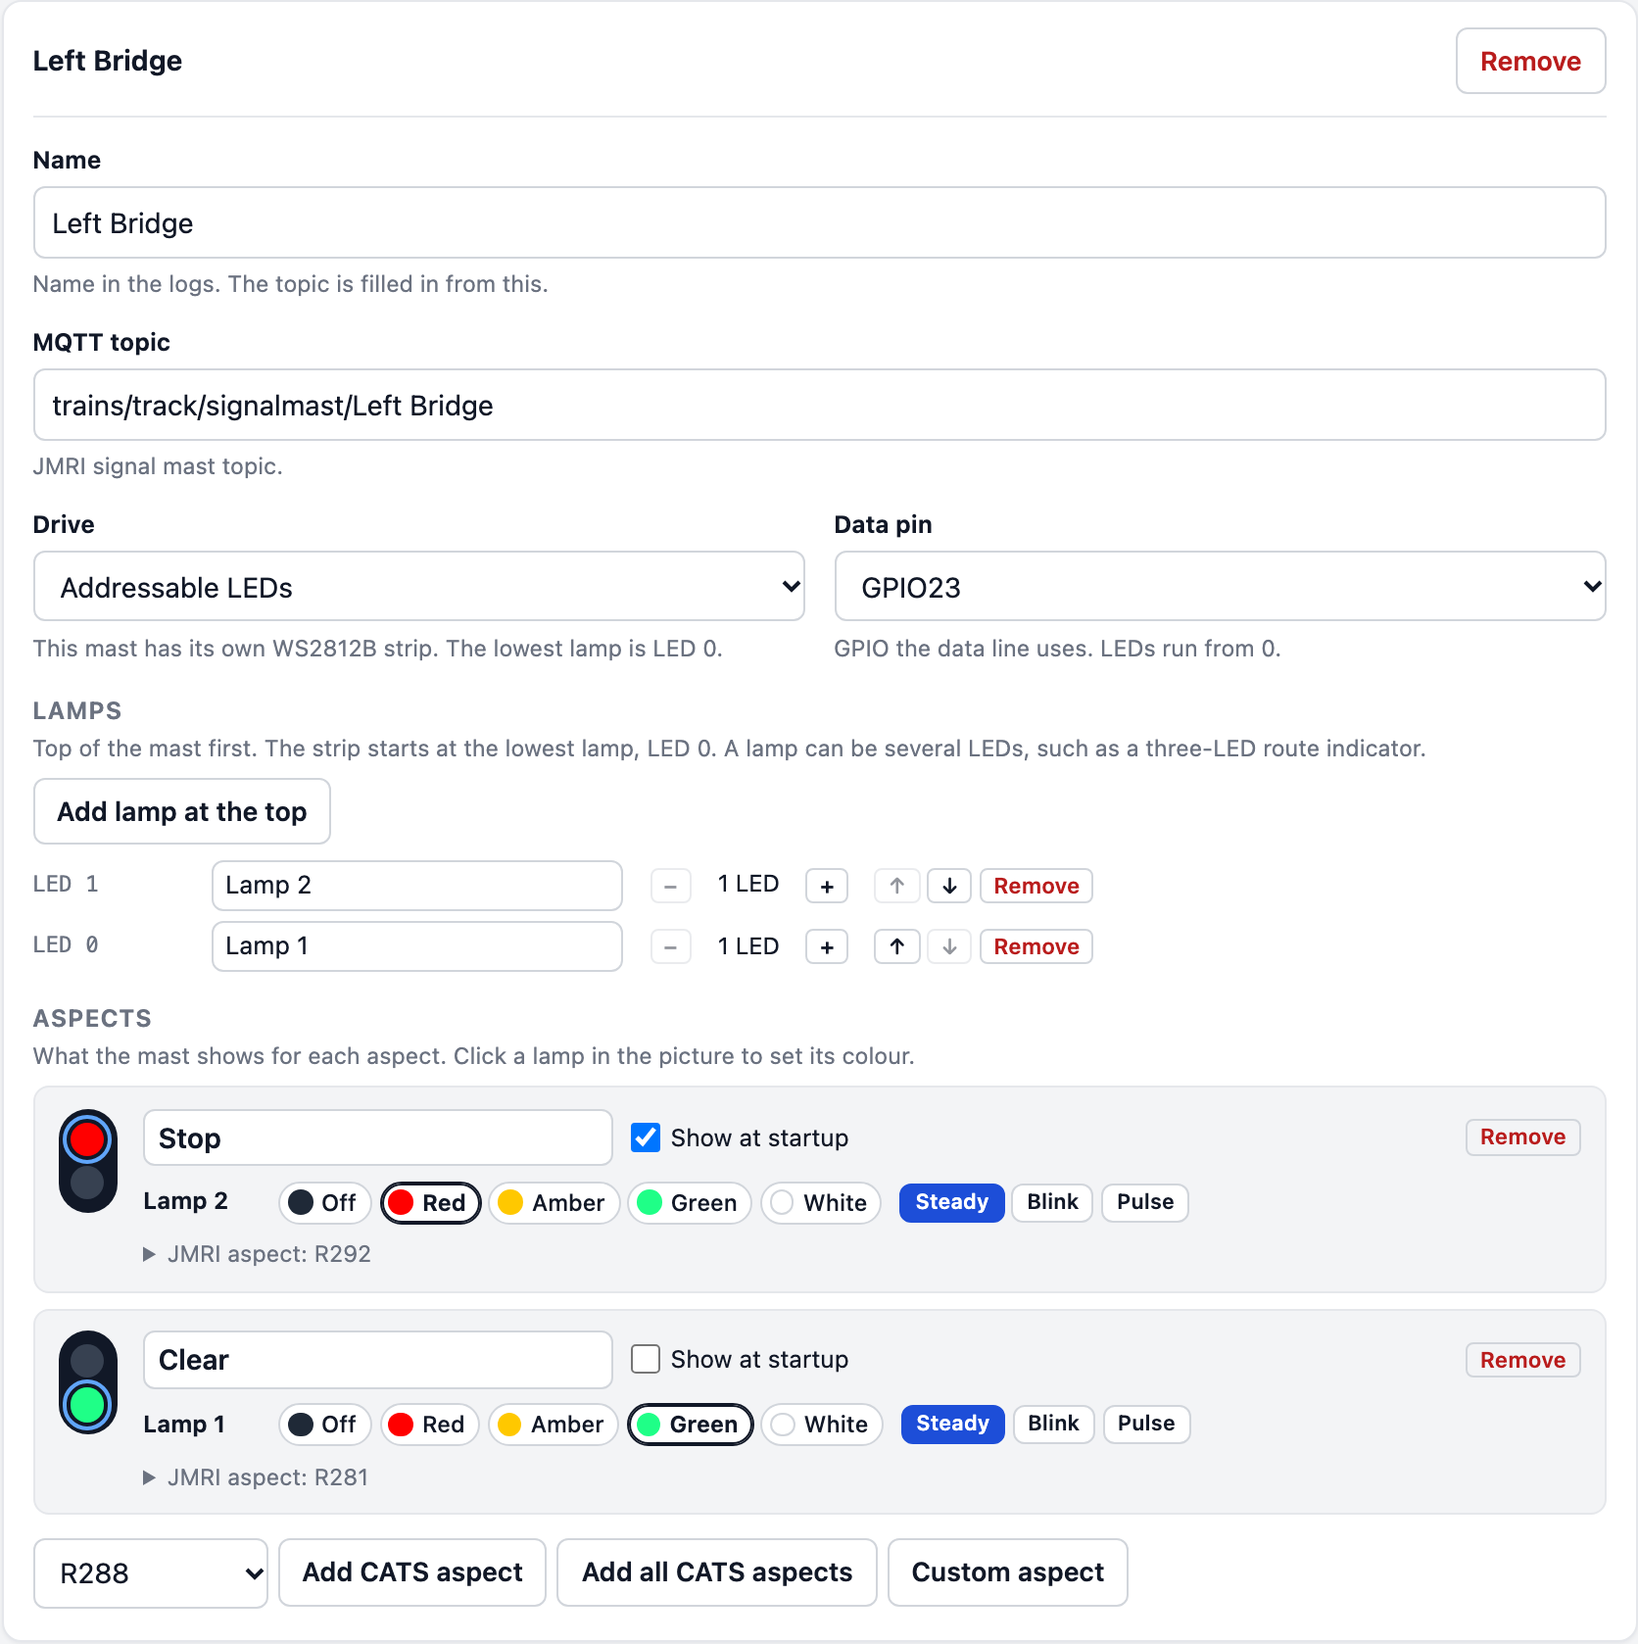
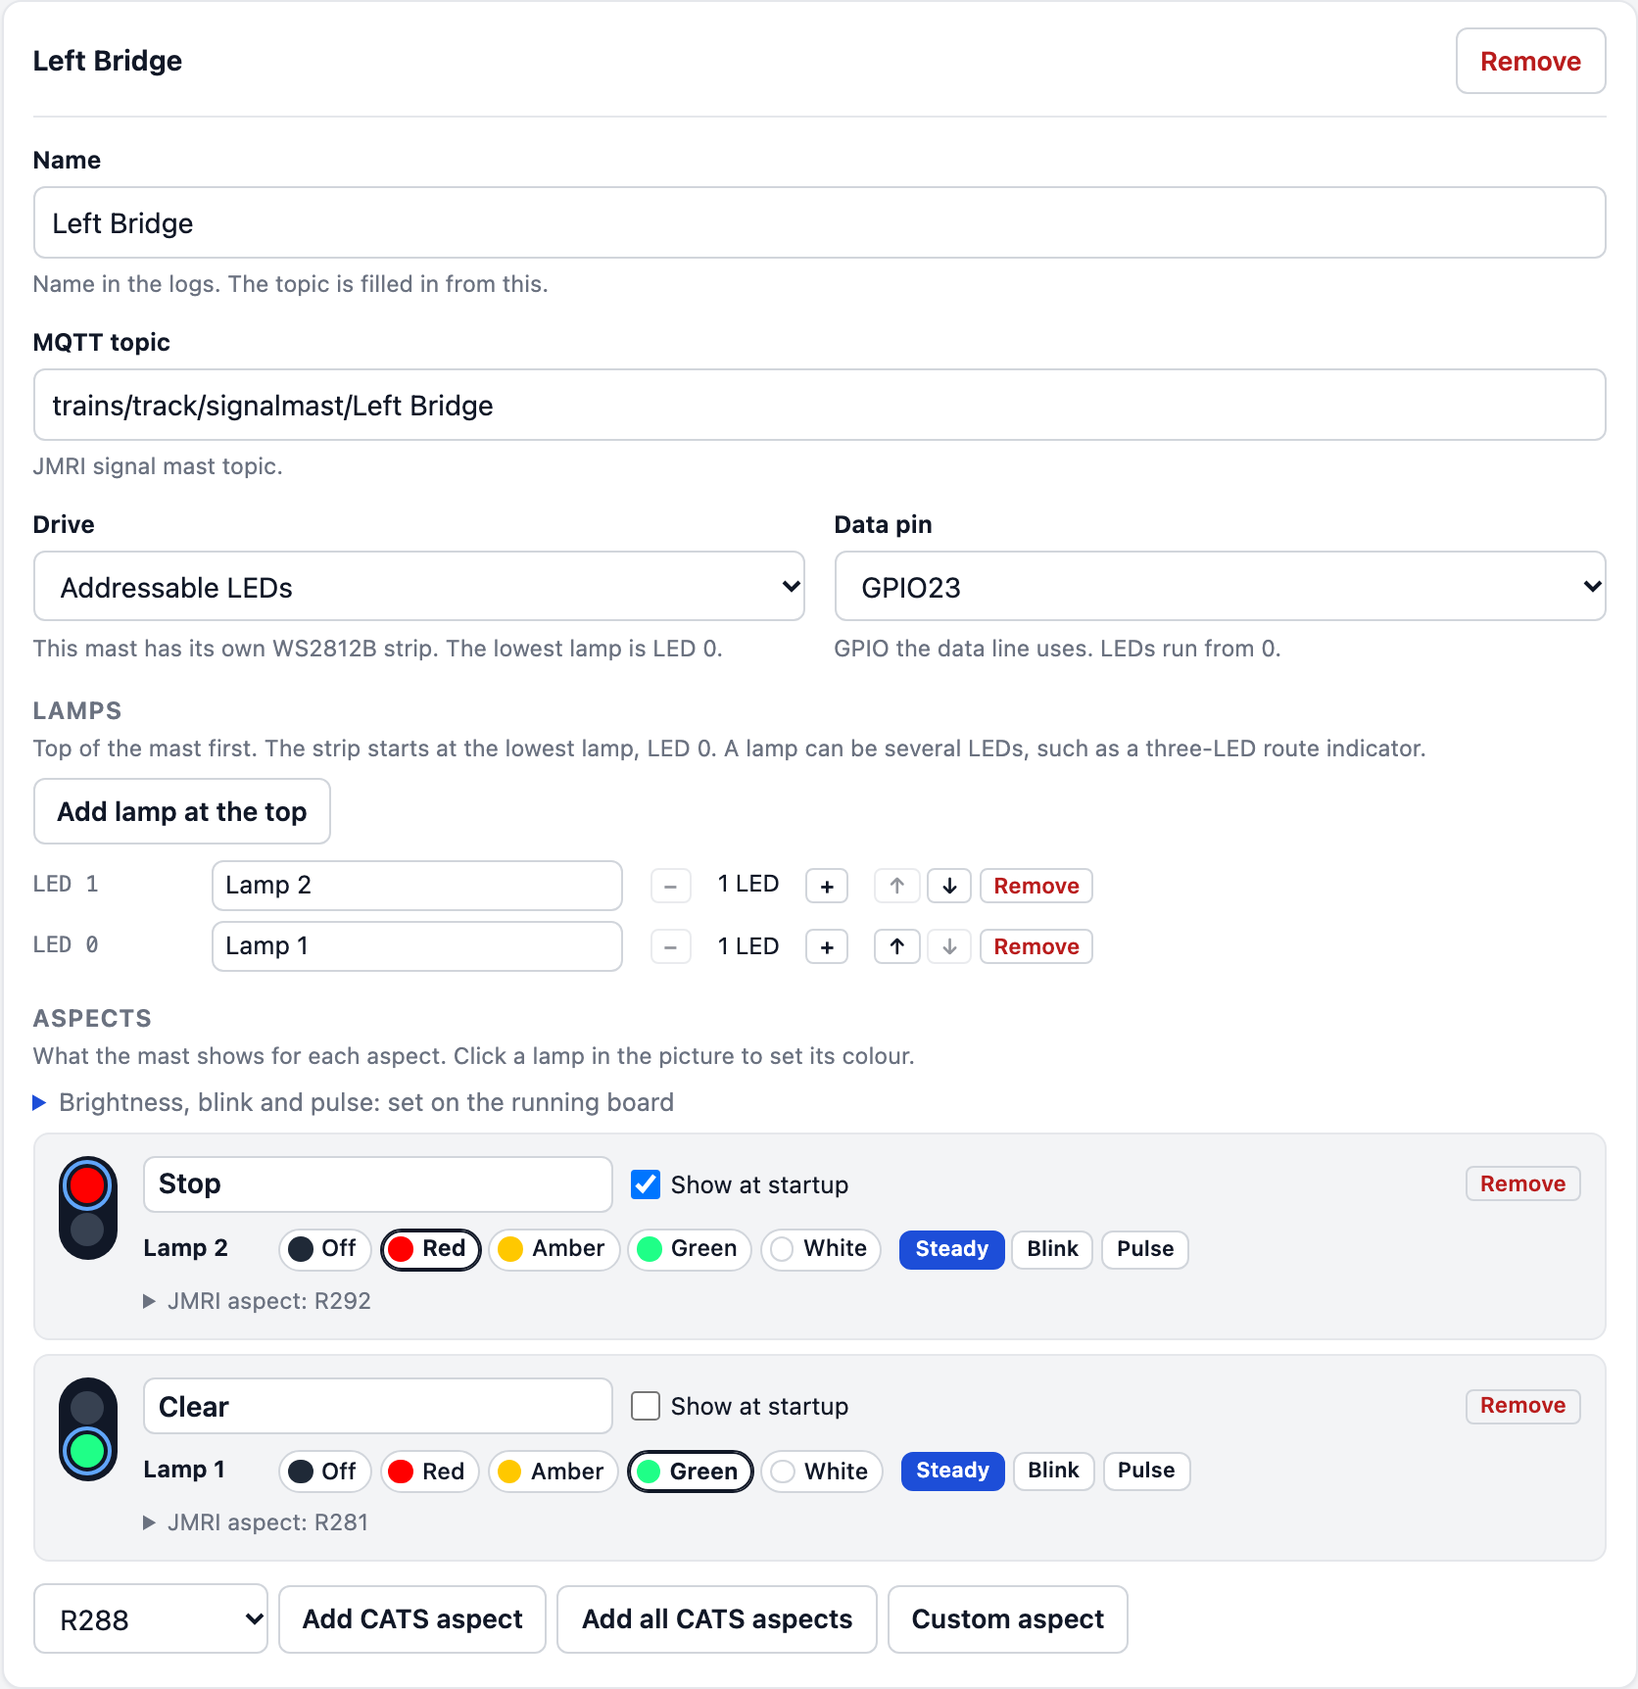
Running-board help beside its settings, folded away.
The Signal Masts page's brightness and blink panel and the Turnouts page's
endpoint note were page-wide. Each is now a folded line beside the setting it
is about: under each mast's Aspects (where Steady, Blink and Pulse are picked)
and in each turnout card after its servo settings. Opened, each names the
board's own address, http://<name>.local.

diff --git a/configurator/app.js b/configurator/app.js
@@ -685,6 +685,32 @@ function field(labelText, value, onInput, opts = {}) {
   return label;
 }
 
+// Help for something set on the running board's own web page, folded away
+// where that setting belongs. `lines` are [label, text] pairs or plain text.
+function runningBoardHelp(summary, intro, lines = []) {
+  const help = document.createElement("details");
+  help.className = "running-help full";
+  const title = document.createElement("summary");
+  title.textContent = summary;
+  const first = document.createElement("p");
+  const address = `http://${state.board.name || "<board-name>"}.local`;
+  const [before, after] = intro.split("{address}");
+  const code = document.createElement("code");
+  code.textContent = address;
+  first.append(before, ...(after === undefined ? [] : [code, after]));
+  help.append(title, first);
+  for (const line of lines) {
+    const p = document.createElement("p");
+    if (Array.isArray(line)) {
+      const strong = document.createElement("strong");
+      strong.textContent = line[0];
+      p.append(strong, ` ${line[1]}`);
+    } else p.textContent = line;
+    help.append(p);
+  }
+  return help;
+}
+
 function hintEl(text) {
   const hint = document.createElement("span");
   hint.className = "hint";
@@ -1655,7 +1681,10 @@ function renderPointCard(point, index) {
     }, {
       placeholder: "10s",
       hint: "How long the throw takes. Longer is slower, for a prototypical speed.",
-    })
+    }),
+    runningBoardHelp("Closed and thrown positions: set on the running board",
+      "After the board is online, open {address} in Chrome or Edge and move this turnout's sliders until it sits right closed and thrown.",
+      ["The board remembers them, so you can adjust a turnout later without a new YAML file."])
   );
   fields.append(renderPanel(point));
   card.append(header, fields);
@@ -2234,6 +2263,19 @@ function renderSignals() {
       ? "What the mast shows for each aspect. Click a lamp in the picture to set its colour."
       : "Add the lamps first, then set what each aspect shows.";
     aspects.append(aspectsHead, aspectHint);
+    if (mast.lamps.length) {
+      aspects.append(runningBoardHelp("Brightness, blink and pulse: set on the running board",
+        "After the board is online, open {address}. These sliders apply to every mast, and the board remembers them. Each one can go down to 0.1.",
+        [
+          ["Signal - Brightness", "How bright a steady lamp is. Starts at 44.6%."],
+          ["Signal - Blink - Brightness", "How bright a blinking lamp is while it is on. Starts at 66.6%."],
+          ["Signal - Blink - On", "How long a blinking lamp stays lit. Starts at 0.6 seconds."],
+          ["Signal - Blink - Off", "How long it stays dark. Starts at 0.2 seconds."],
+          ["Signal - Pulse - Brightness", "How bright a pulsing lamp gets at the top of the fade. Starts at 88.5%."],
+          ["Signal - Pulse - Rate", "How long the fade down and back up takes. Starts at 0.5 seconds."],
+          ["Signal - Pulse - Gap", "How long the lamp stays off between fades. Starts at 0.3 seconds."],
+        ]));
+    }
     const aspectList = document.createElement("div");
     aspectList.className = "aspect-list";
     mast.aspects.forEach((aspect, aspectIndex) => {

diff --git a/configurator/index.html b/configurator/index.html
@@ -120,9 +120,6 @@
                 <button type="button" id="btn-add-point" class="primary">Add turnout</button>
               </div>
             </header>
-            <aside class="note">
-              <p>Closed and thrown positions are set on the running board, at <code>http://&lt;board-name&gt;.local</code>.</p>
-            </aside>
             <aside class="note caution" id="direct-pwm-note" hidden>
               <p>You can generally only run 3-4 servos this way. They take power from the ESP. More than that needs an external supply, which is why a PCA9685 is used to scale up.</p>
             </aside>
@@ -155,17 +152,6 @@
             <aside class="note" id="cats-template-note">
               <p>Using CATS, or the signal masts in the JMRI file from the Download page? JMRI needs the CATS signal template once for them. <a href="#cats-template" data-goto="yaml" data-scroll="cats-template">Get it on the Download page</a>.</p>
             </aside>
-            <details class="note note-settings" id="signal-web-note">
-              <summary>Brightness and blink settings, on the running board</summary>
-              <p>After the board is online, open <code>http://&lt;board-name&gt;.local</code>. These sliders apply to every mast, and the ESP remembers them. Each one can go down to 0.1.</p>
-              <p><strong>Signal - Brightness</strong> How bright a steady lamp is. Starts at 44.6%.</p>
-              <p><strong>Signal - Blink - Brightness</strong> How bright a blinking lamp is while it is on. Starts at 66.6%.</p>
-              <p><strong>Signal - Blink - On</strong> How long a blinking lamp stays lit. Starts at 0.6 seconds.</p>
-              <p><strong>Signal - Blink - Off</strong> How long it stays dark. Starts at 0.2 seconds.</p>
-              <p><strong>Signal - Pulse - Brightness</strong> How bright a pulsing lamp gets at the top of the fade. Starts at 88.5%.</p>
-              <p><strong>Signal - Pulse - Rate</strong> How long the fade down and back up takes. Starts at 0.5 seconds.</p>
-              <p><strong>Signal - Pulse - Gap</strong> How long the lamp stays off between fades. Starts at 0.3 seconds.</p>
-            </details>
             <div class="pager">
               <button type="button" data-goto="points">Back: turnouts</button>
               <button type="button" class="primary" data-goto="logic">Next: logic</button>

diff --git a/configurator/styles.css b/configurator/styles.css
@@ -2744,3 +2744,41 @@ button.clear-page {
   border-radius: 6px;
   padding: 0.5rem 0.7rem;
 }
+
+/* Help for a setting made on the running board's web page, folded away
+   beside that setting. */
+.running-help {
+  grid-column: 1 / -1;
+  font-size: 0.85rem;
+  color: var(--muted);
+  margin: 0.15rem 0 0.4rem;
+}
+
+.running-help summary {
+  cursor: pointer;
+  width: fit-content;
+}
+
+.running-help summary::marker {
+  color: var(--accent);
+}
+
+.running-help[open] {
+  padding: 0.5rem 0.75rem;
+  border-left: 3px solid var(--line-strong);
+  background: var(--bg);
+  border-radius: 0 6px 6px 0;
+}
+
+.running-help[open] summary {
+  margin-bottom: 0.35rem;
+}
+
+.running-help p {
+  margin: 0.25rem 0 0;
+}
+
+.running-help code {
+  font-family: var(--mono);
+  font-size: 0.95em;
+}

diff --git a/AGENTS.md b/AGENTS.md
@@ -77,6 +77,7 @@ This repo is a beginner path for model-railroad ESP32 boards that talk to JMRI/C
 - **Logic page** (on `feature/logic` only, being built): stored in `config.logic` (`mode`, `share`, ...); the page is `logic-ui.js` plus one file per part (`logic-ui-masts.js`: Masts, Buttons; `logic-ui-rules.js`: Sections, Groups and the rule cards; `logic-ui-views.js`: Who uses what, the control table; `logic-ui-start.js`: starters, the Download page's Logic version). Each part calls `EsphomeMrLogicUi.registerPart({ id, order, modes, text, render })`; its id is its card's element id, which validation links point at. Every word is in a `TEXT` handed to `registerPart`, linted for spec-only terms. Parts keep their logic in pure functions on their global (tested without a DOM) and use the shared helpers in `EsphomeMrLogicUi.UI`. Starters (2.8) are in `logic-starters.js` (the core: `defineStarter`, `defaults`, `problems`, `build`, `apply`, `dialog`), with One-train section and Lock turnouts in `logic-starters-sections.js` and Block signals and Route signal in `logic-starters-signals.js`. Building is plain JS that Node tests call; each starter's worked example is checked by putting its rules into the matching engine case and replaying it (`test/starters-*.test.js`). A starter's form turns its card on through `EsphomeMrLogicUiStart.registerStarter`. **MSS page** (4.2): `logic-ui-mss-steps.js` (guided steps, Ends, the Signals grid), `logic-ui-mss-module.js` (the module picture `logic-mss-module`, pinned at the top: a pure `layout(config)` of ends, tracks and junctions, checked by `test/mss-module.test.js`, falling back to one track to a row when tracks would overlap; clicking a block or boundary opens its form, a junction or end scrolls to its card); Try it (`logic-try`, registered for both modes) draws it live in MSS Logic through `livePicture` (trains in blocks, each signal's lamp, the route the turnouts set, turnouts to click) and runs a train with `trainRoute` (in at an end, along the set route, out at another) and `trainStarts`; `EsphomeMrMssBuilder.namesOf` maps the description to the built block and signal names. It hides the signals with no lights and the Sections heading, `logic-ui-mss-tracks.js` (each track's From and To, and the form for the block or boundary picked on the picture, `pick`/`picked`; any change saves and draws the whole page), `logic-ui-mss-junctions.js` (junctions from a shape, routes; a junction keeps the `shape` it was made from, used only to draw it), `mss-templates.js` (the standard MSS modules: Crossover, Cascade, Complex cascade, as the ISE boards build them; `plan`/`apply` write the description and hand the page's `addItems` the sensors, turnout and CATS-aspect masts to add with free pins; signals are individual LEDs by default, three to a head, or one WS2812B LED a head with `style: "strip"`; the confirm panel warns when the LEDs outnumber `safeOutputPins`, the free pins that are not strapping pins; offered on the steps card while the module is empty), `logic-ui-mss-marks.js` (red dots: mark an element with `data-mss-part` and `data-mss-<key>` matching the builder's `where`; `apply` runs after the page draws). Parts register with `modes: ["mss"]` and the ids in `EsphomeMrMssBuilder.PARTS`; the views show built items read-only, marked Made by MSS Logic; `test/mss-page.test.js` lints MSS-only terms. Its YAML and XML come from `logic-yaml.js` hooks in `generator.js`. Mode None with Share unticked writes no `logic` key, so the YAML is unchanged. **Share with other boards** (on by default in Field Logic) adds only: the board Online topic as MQTT birth/will/shutdown, each sensor's retained `/State`, each turnout's retained `/Moving` (around announced throws, after `/Thrown`), each mast's retained `/State` (its JMRI aspect name), and the Owner MAC check (`trains/track/board/<board>/Owner`; a clash logs an error and shows on the web page). JMRI XML gets a Logic tick box with `MSboard/<board>/Online`. **Blocks** (`logic.blocks`, Field Logic only): each is a template `binary_sensor` `<block>_block`, occupied while any member is (this board's sensor by name, or `{board, sensor|block}` from a linked board, which reads occupied until known; a member on an expander that `is_failed()` or `status_has_warning()` reads occupied). It publishes like a detector, plus `/State` when sharing, and goes in the JMRI Logic box. **Field Logic on the board** (`logic-yaml.js`, work item 2.5): Field Logic always writes the `mr_logic` component (`external_components` from `LOGIC_COMPONENT_REF`, which CI checks exists on GitHub), the `Field logic` switch, a `Release <section>` button per section, and the `Logic version` text sensor. The rule table is the engine cases' board format (`logicTable`); the version code is a hash of it (`versionCode`). A mast that rules set keeps its `mqtt_subscribe` without `on_value` (the component reads it) and needs no MQTT. Aspect names in the table are the Signal Masts labels, in order, so they must be unique on masts logic uses. Untagged aspects are `stop`. A rule-locked turnout (`lockedTurnoutNames`) gets `<id>_field_locked` beside the remote lock in the button guard, `CLOSED`/`THROWN` handlers and latch script (`lockFlags`), and the lock report from a template `<id>_lock_report` even without Remote lock. With Field Logic the component runs the unlock re-sync (`remote_locked`, `resync` bindings), so the `UNLOCKED` handler only clears the flag. **Validation** (2.6): `validateConfig` returns `links`, a Map from each message to `{ view, part }` (a page, and an element id such as `logic-groups`); `renderMessages` adds a **Show** link. Logic checks live in `logic-yaml.js` `validate`, reported through `reporter(errors, warnings, links)`: references, aspects, sections (one per block, here and across linked boards, whose snapshot keeps `logic.resources`), the mast cycle check (`mastCycles`), rule-button pins, and the warnings. Messages say what is wrong, why, and what to do, in the page's plain words. **Checker** (2.9): `logic-checker.js` explores every reachable state of the rule table in the JS engine (replaying the shortest path to each state; a wait step runs scans until something changes, so each timer can elapse at any point; inputs are only what the rules read). It reports deadlock (an error, blocking the download), starvation, rules that never apply and masts stuck at Stop (warnings), and falls back to seeded random runs past its budget. Limits (4.5, spec *Checker limits*, re-measured with `configurator/test/bench/checker-limits.mjs`, which `npm test` does not run): it checks a board in parts (`partsOf`: a mast's or section's rules plus the masts they read), explores inputs the rules cannot tell apart once (`checkerInputs`; Try it keeps `inputsOf`), and keys a state on each section's waiting order (`checkerView().asked`). Any change to these must keep `test/checker.test.js`'s comparison with `{ split: false, allInputs: true }` passing. `BUDGETS.validation` (2,000 states / 400 ms, then 200 ms of random runs) runs in validation in both Field Logic and MSS Logic, only when nothing else is wrong, memoised on the rule table; when it gives up, the Download page offers **Check every combination** (`checkFully`, `BUDGETS.full`: 30,000 states / 20 s), whose result stands until the rules change. Each link carries its Show me `sequence` (`{ do: event }` / `{ wait: scans }` after the start-up scan) for Try it. `logic.js` has `checkerView()` for it, with no C++ counterpart. **Try it** (2.10): `logic-try.js` is the pure core (`EsphomeMrLogicTry.createSession`: inputs from the checker's `inputsOf` plus "not known" for remote items, step, skip ahead, `play(sequence)` for Show me, `view()`; `shapesOf` for strip diagrams from One-train section and Block signals groups; `runTrain`), and `logic-ui-try.js` is the page part `logic-try` (order 88). A validation link with `sequence` opens it through `EsphomeMrLogicUiTry.showMe`. Renaming a sensor, turnout or mast on its page renames its Logic page references (`renameReferences`, on `change`, not per key, and not when another item of that kind has the old or new name). Deleting one leaves the references, which validation reports by name.
 - The mast editor lists lamps top of the mast first (with LED numbers; the stored `lamps` array stays LED 0 first) and shows each aspect as a card with a small mast picture; click a lamp to set its colour and effect. The raw JMRI match strings sit under a collapsed *JMRI aspect* section. There are no lamp presets.
 - The UI calls the sections Sensors, Turnouts, and Signal Masts (the JMRI table names), with a JMRI badge in the nav. The stored keys stay `blocks`, `points`, and `signals` so old files import.
+- Settings made on the running board's own web page (servo endpoints; the board-wide signal brightness, blink and pulse sliders) are explained in folded help beside the setting they belong to (`runningBoardHelp`: each turnout card, under each mast's Aspects), with the board's own `http://<name>.local`, not in page-wide notes.
 - **Clear this page** (`CLEARS` in `app.js`): each page but Download has one in its header, which asks first in a panel under the header. Board goes back to a new board's settings but keeps the name suffix and the hotspot and API keys (and clears the saved Wi-Fi and MQTT); Sensors removes sensors and expanders; Turnouts removes turnouts and goes back to one PCA9685; Signal Masts removes the masts; Logic keeps only `mode` and `share`. References left behind on the Logic page show as problems.
 - **Import** is a menu: *From a file* or *Paste from ESPHome* (a dialog; same parser, so it needs the `esphome-mr-config:1` header). **Send to ESPHome** on the Download page copies the YAML and opens http://localhost:6052 with paste steps. It does not write to the Device Builder directly: the Device Builder rejects other origins unless `ESPHOME_TRUSTED_DOMAINS` lists them, and the install scripts deliberately leave that unset.
 - The Download page also offers **Download JMRI XML** (`generateJmriXml`): a `layout-config` file for PanelPro's *Load table content and panels*. The hardware address is the part of the topic after `track/sensor/`, `track/turnout/`, or `track/signalmast/`, giving `MS<address>`, `MT<address>`, and `IF$mqm:cats-masts:cats-virtual(<address>)`. Each turnout also brings `MS<turnout address>/Thrown` (its `ONESENSOR` feedback, `sensor1`) and, with Remote lock, `MS<turnout address>/Locked`. Tick boxes (Sensors, Turnouts, Signal Masts; all ticked on load, not saved) pick the tables; the turnout's own sensors go with Turnouts. CATS sets up its own sensors and turnouts, so CATS users tick only Signal Masts. Items whose topic lacks that type topic, and masts whose address has `(`, `)`, or `:`, are left out and listed. It validates against JMRI 5.4's `layout-4-19-2.xsd`. The page's first JMRI step is the MQTT connection: prefix `M`, Channel `trains/` (blank in new JMRI, `/trains/` before 5.1.2; both miss the board), and the default `track/<type>/{0}` topics.
